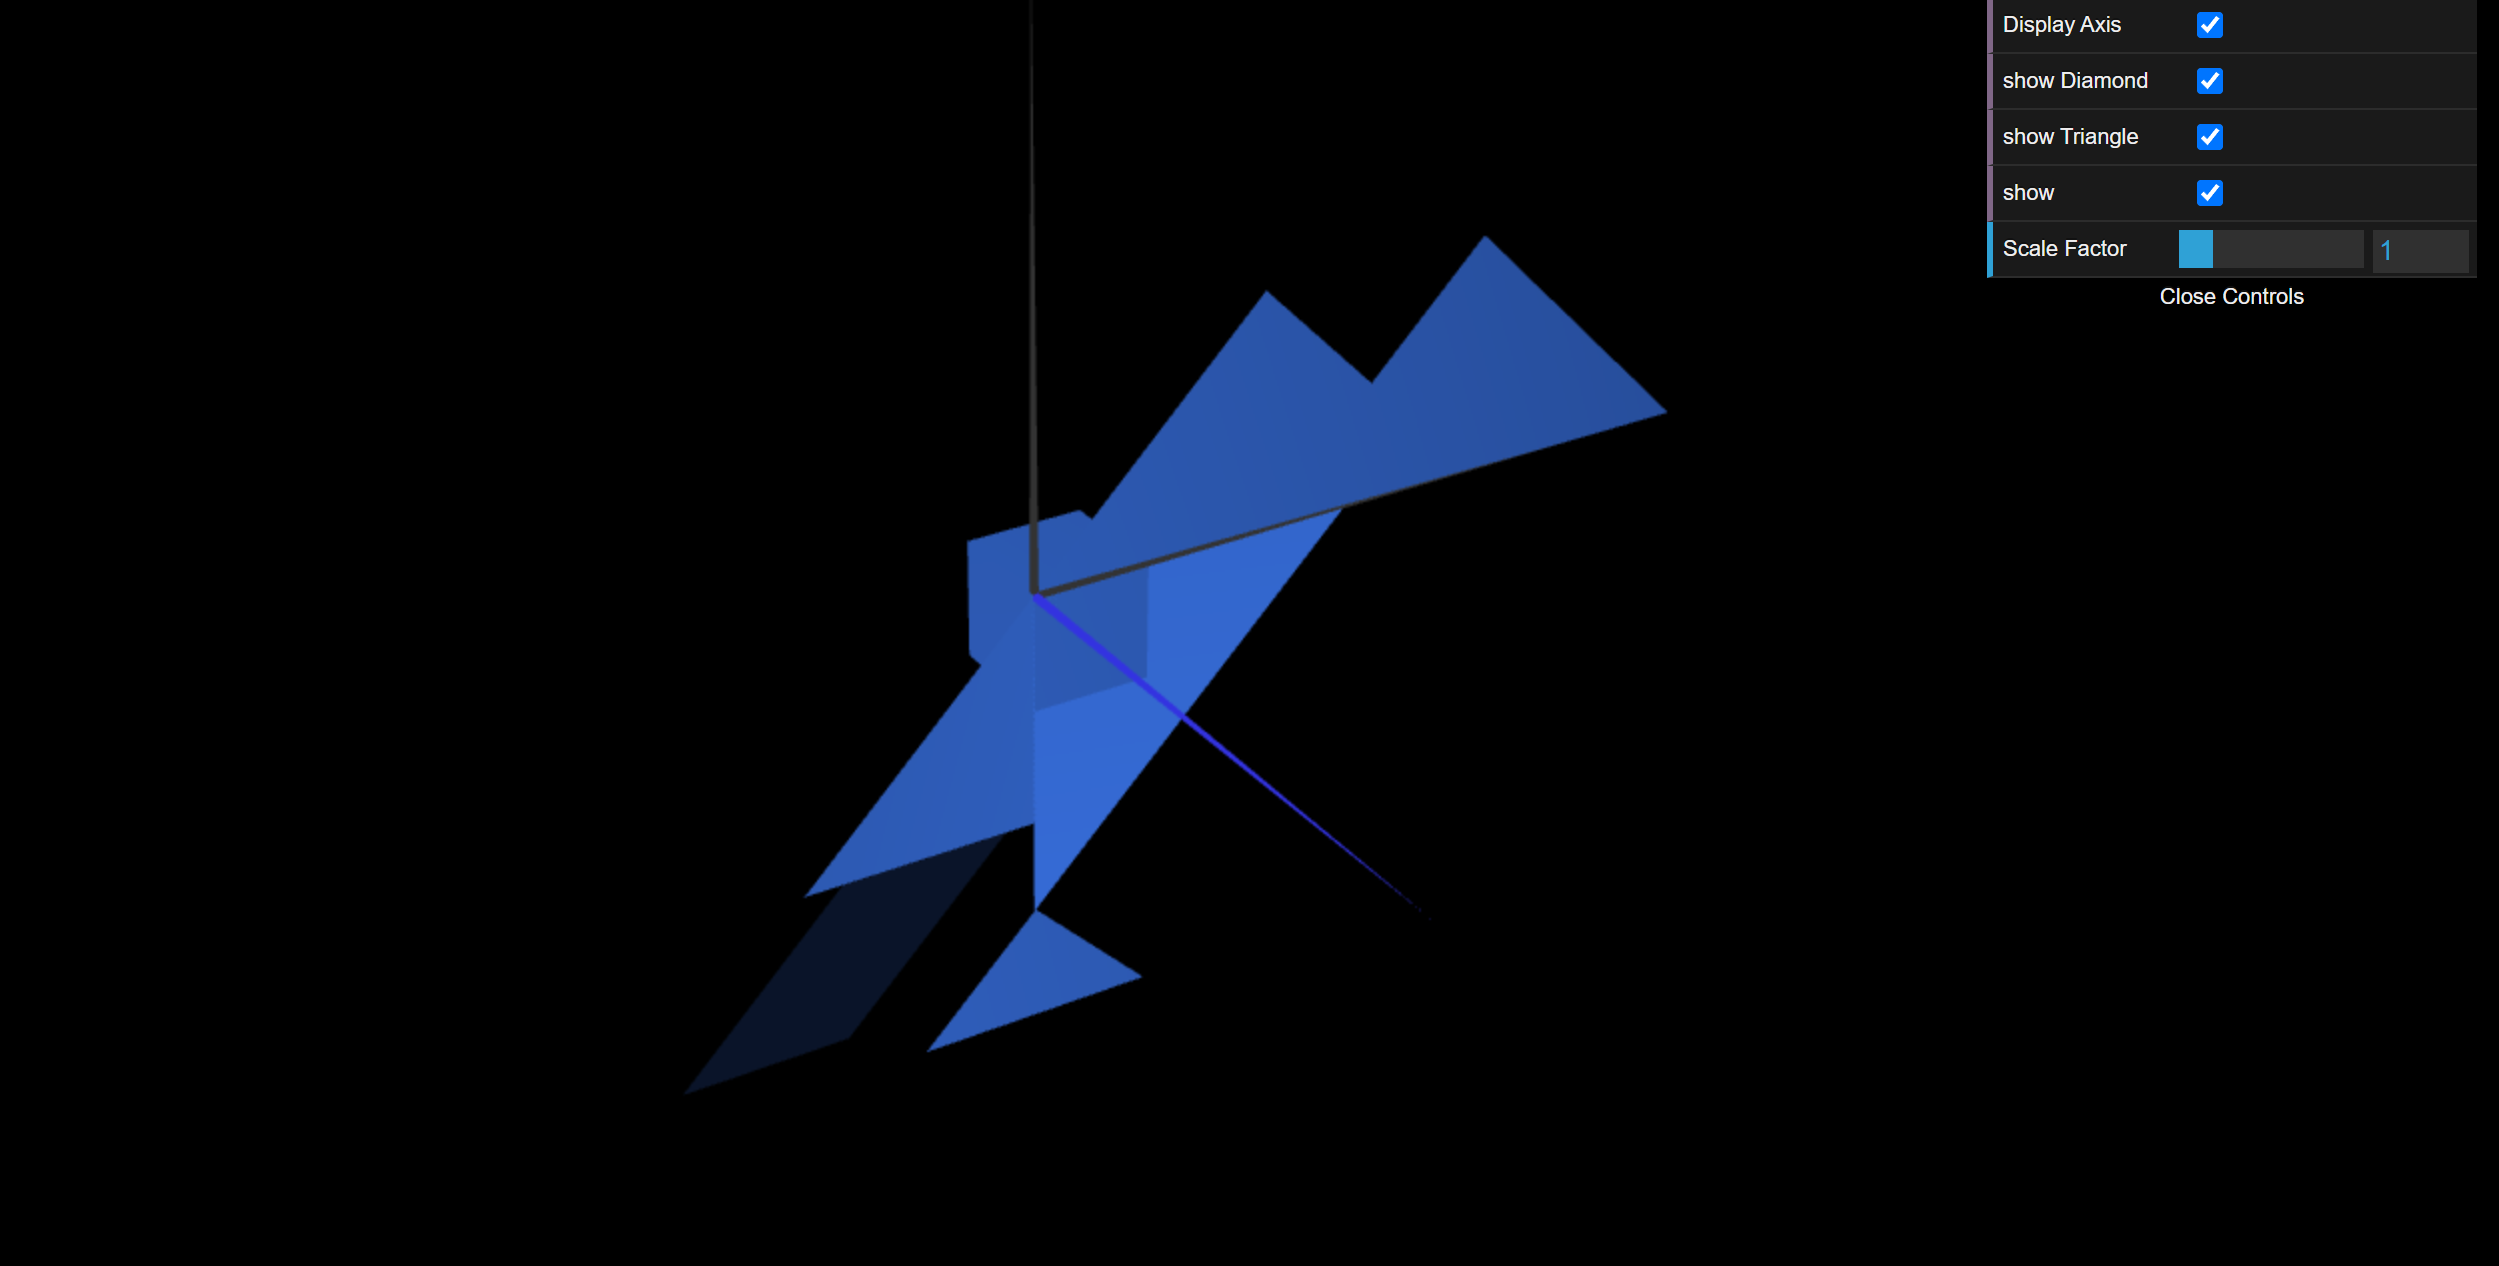
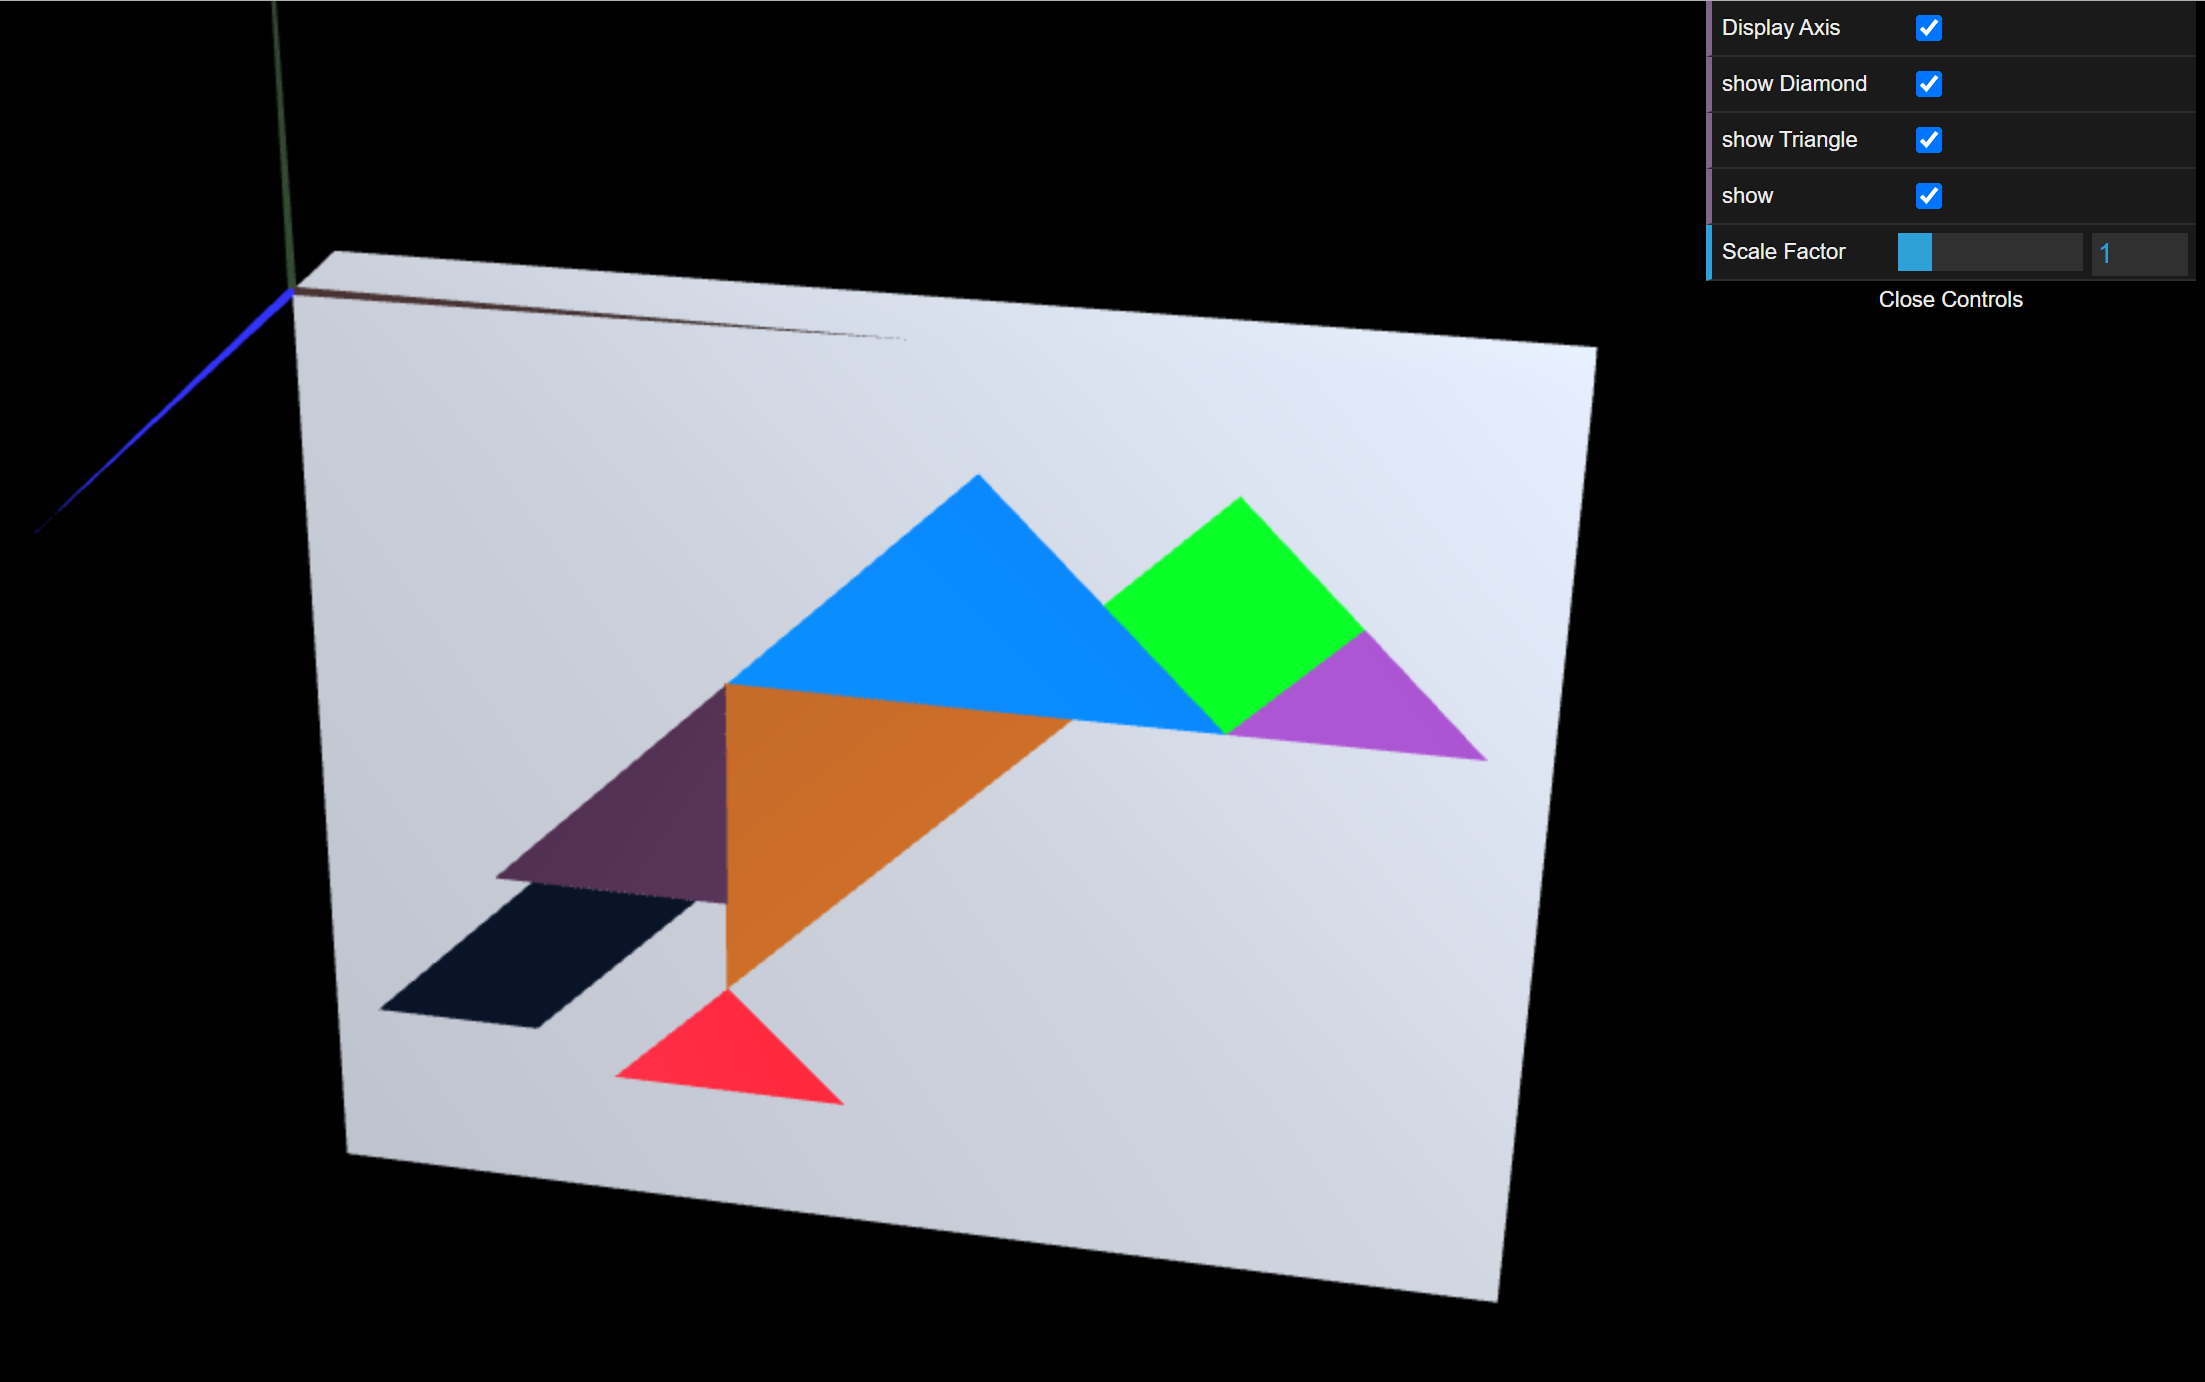
Update: display of MyUnitCube and screenshot

diff --git a/tp2/MyScene.js b/tp2/MyScene.js
@@ -115,21 +115,25 @@ export class MyScene extends CGFscene {
     this.multMatrix(sca);
 
     // 2. Tangram Exercise
+    this.translate(3.5, -3, 0.1);
     // Diamond
     this.pushMatrix();
     this.multMatrix(tDiamond);
+    this.setDiffuse(0, 1, 0, 1.0);
     this.diamond.display();
     this.popMatrix();
 
     // Big Triangle 1
     this.pushMatrix();
     this.translate(2, 0, 0);
+    this.setDiffuse(0, 0.5, 1, 1.0);
     this.triangleBig1.display();
     this.popMatrix();
 
     // Small Triangle 1
     this.pushMatrix();
     this.translate(5, 0, 0);
+    this.setDiffuse(0.67, 0.3, 0.76, 1.0);
     this.triangleSmall1.display();
     this.popMatrix();
 
@@ -137,12 +141,14 @@ export class MyScene extends CGFscene {
     this.pushMatrix();
     this.translate(1.4, -1.4, 0);
     this.rotate(Math.PI / 4, 0, 0, 1);
+    this.setDiffuse(1, 0.5, 0, 1.0);
     this.triangleBig2.display();
     this.popMatrix();
 
     // Small Triangle 2
     this.pushMatrix();
     this.translate(0, -3.8, 0);
+    this.setDiffuse(1, 0.08, 0.08, 1.0);
     this.triangleSmall2.display();
     this.popMatrix();
 
@@ -150,6 +156,7 @@ export class MyScene extends CGFscene {
     this.pushMatrix();
     this.rotate(Math.PI / 2, 0, 0, 1);
     this.translate(-1, 1, 0);
+    this.setDiffuse(1, 0.5, 0.82, 1.0);
     this.triangle.display();
     this.popMatrix();
 
@@ -158,16 +165,19 @@ export class MyScene extends CGFscene {
     this.rotate(Math.PI, 1, 0, 0);
     this.rotate(0.75 * Math.PI, 0, 0, 1); 
     this.translate(1.6, -1.23, 0);
+    this.setDiffuse(1, 1, 0, 1.0);
     this.parallelogram.display();
     this.popMatrix();
 
     // 3. Unit Cube
-    /*this.pushMatrix();
-    this.translate(0.5, -0.5, -0.5);
+    this.pushMatrix();
+    this.translate(1.5, -1, -0.6);
+    this.scale(10, 8, 1);
+    this.setDiffuse(1, 1, 1, 1.0);
     this.unitCube.display();
-    this.popMatrix();*/
+    this.popMatrix();
 
     // 4. Unit Cube Quad
-    this.unitCubeQuad.display();
+    //this.unitCubeQuad.display();
   }
 }
